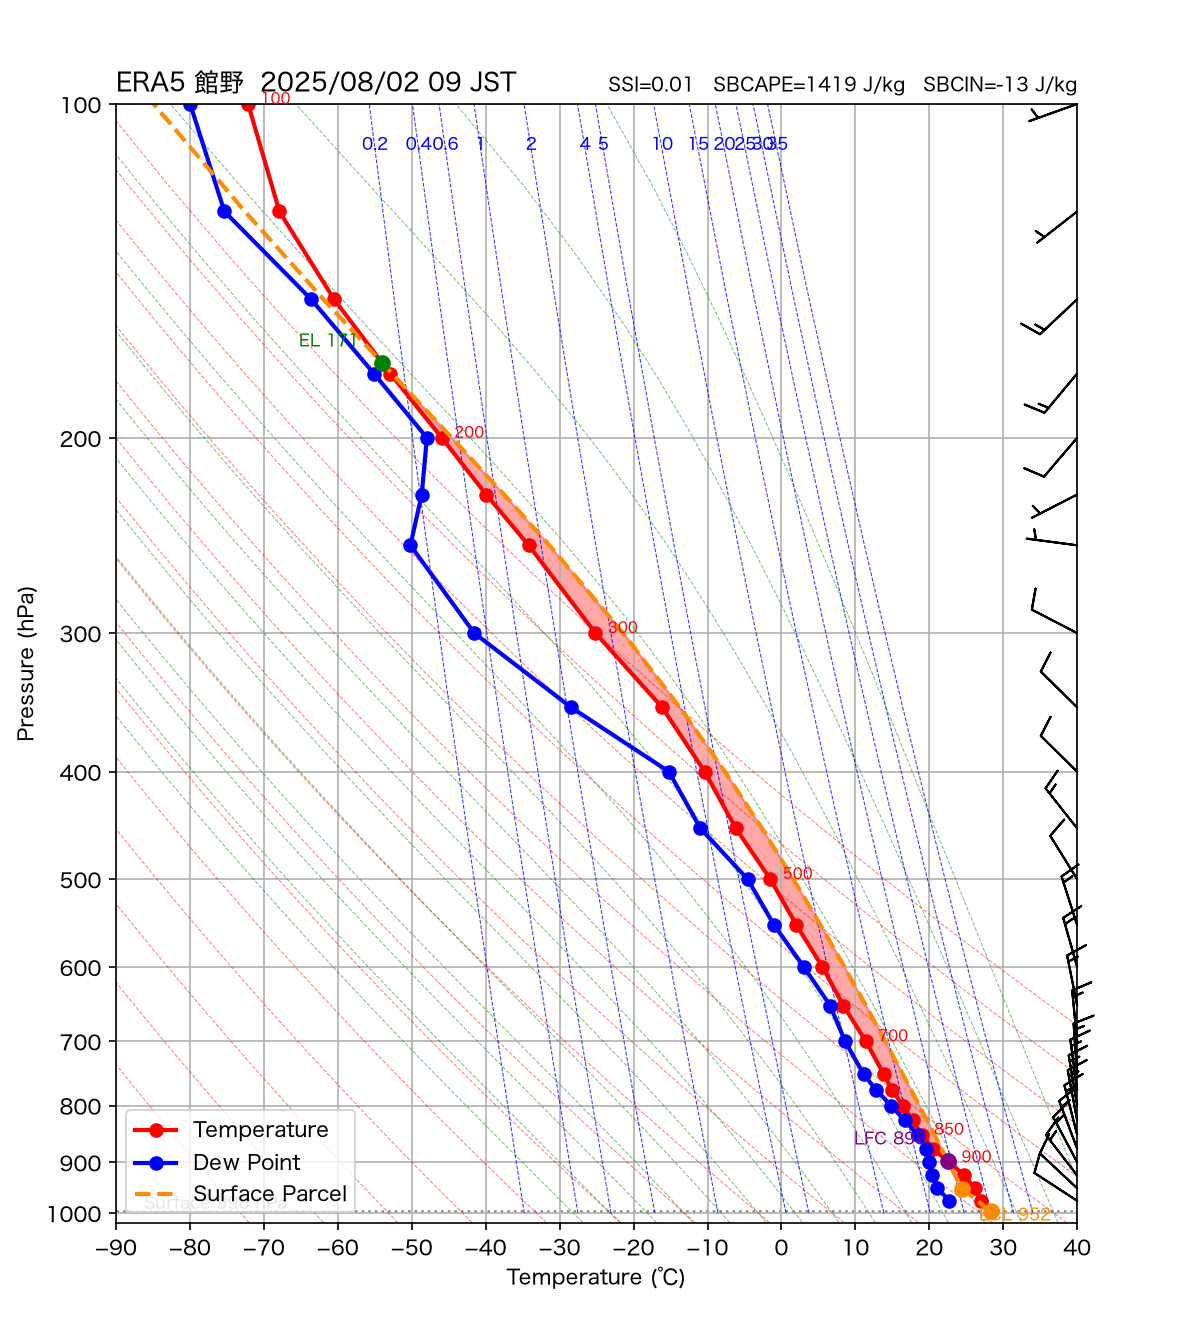
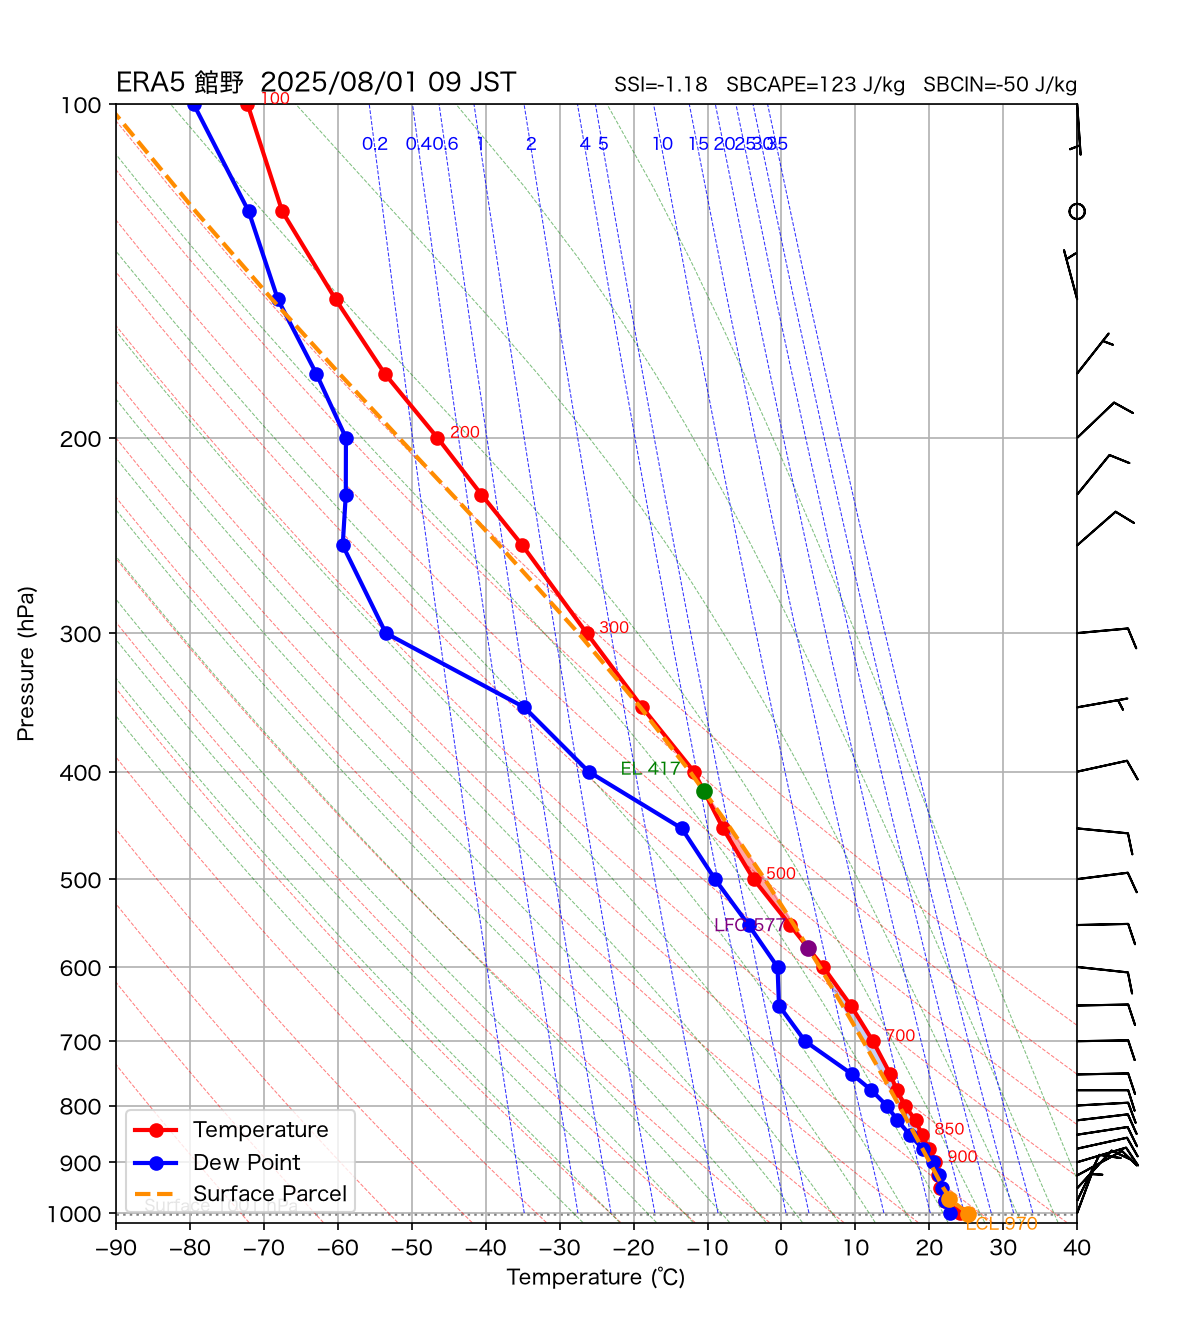
Update credits and README

diff --git a/app.py b/app.py
@@ -474,3 +474,38 @@ else:
         )
 
         st.exception(exc)
+
+
+
+
+
+
+
+
+
+
+
+
+
+
+
+
+
+
+
+
+
+
+
+st.sidebar.markdown("---")
+st.sidebar.caption(
+    """
+**Data Sources**
+
+• Japan Meteorological Agency (JMA)
+
+• ERA5 Reanalysis (Copernicus Climate Change Service, C3S)
+
+© European Union
+"""
+)

diff --git a/README.md b/README.md
@@ -97,21 +97,25 @@ streamlit run app.py
 
 ## Data Sources
 
-### Radiosonde
+### Radiosonde Observations
+
+Upper-air observations are provided by the Japan Meteorological Agency (JMA).
 
 Japan Meteorological Agency (JMA)
-
 https://www.data.jma.go.jp/
 
-### ERA5
+---
+
+### ERA5 Reanalysis
 
 This application uses ERA5 reanalysis data provided by the Copernicus Climate Change Service (C3S).
 
 Generated using Copernicus Climate Change Service information.
 
+Copernicus Climate Change Service (C3S)
 https://cds.climate.copernicus.eu/
 
----
+ERA5 data © European Union.
 
 ## Roadmap
 
@@ -146,3 +150,14 @@ Takuro Odagawa
 Science Teacher (Japan)
 
 Interested in atmospheric science, weather forecasting, and science education.
+
+
+
+
+
+
+
+## Disclaimer
+
+This project is an independent educational and research application.
+It is not affiliated with or endorsed by the Japan Meteorological Agency (JMA), ECMWF, or the Copernicus Climate Change Service (C3S).
